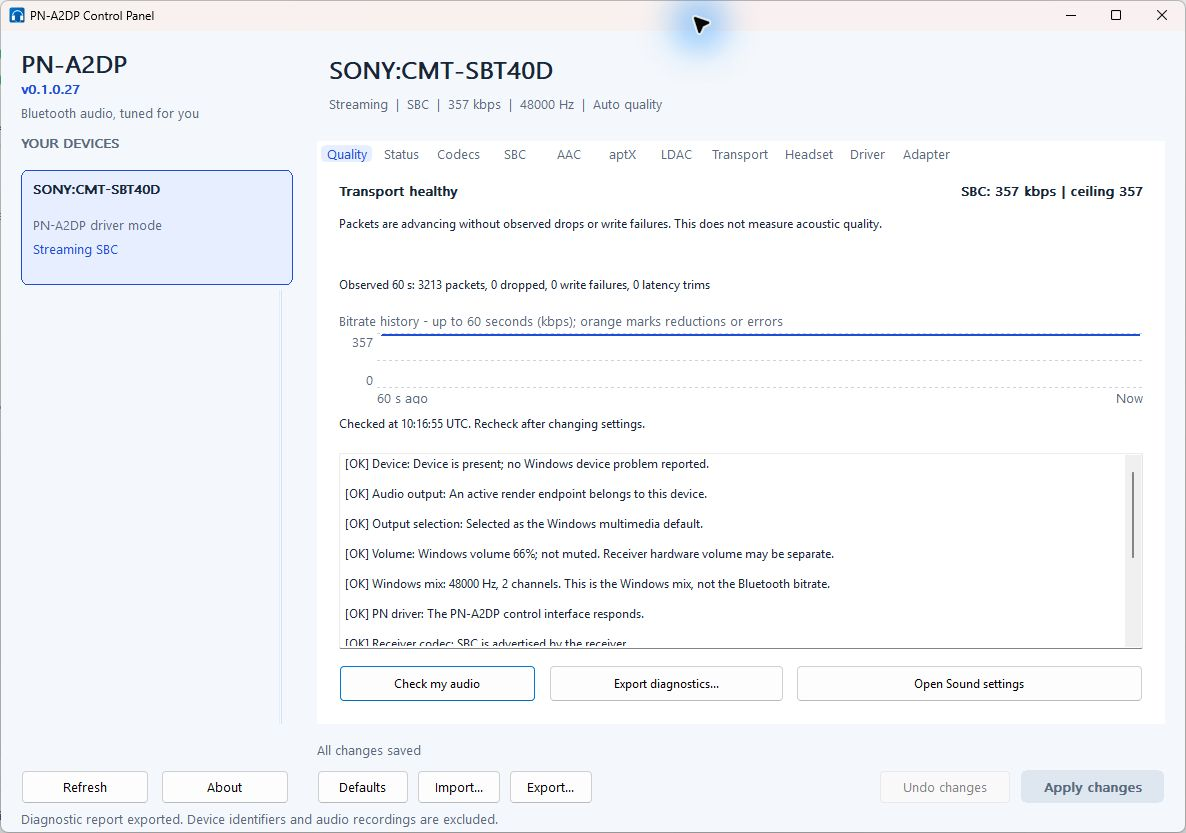
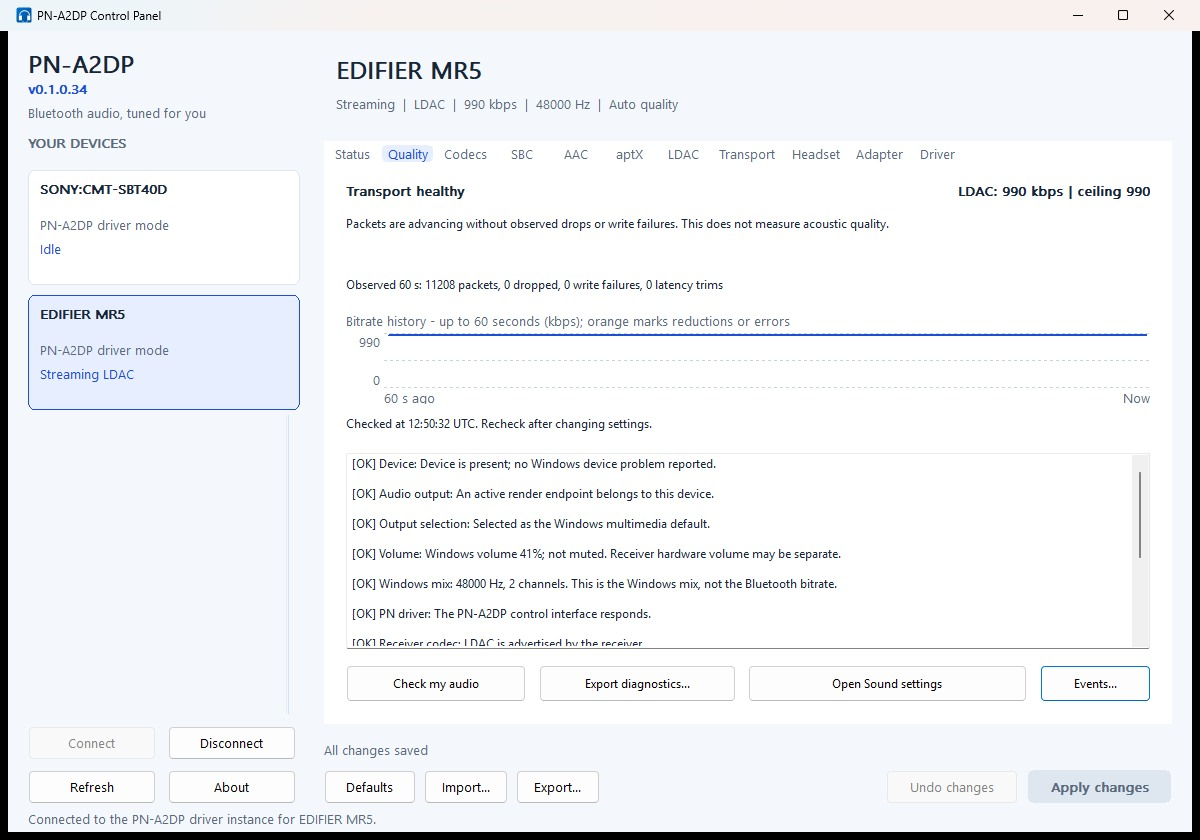
Refresh README screenshot for v0.1.0.34 and explain Windows mode vs Test Mode
- New hero screenshot: control panel 0.1.0.34 with driver 0.1.0.21 streaming LDAC
  at 990 kbps to an EDIFIER MR5 (60 s: 11,208 packets, no drops, write failures
  or latency trims), replacing the 0.1.0.27 Sony SBC capture.
- docs/19: plain-language guide to Windows mode and PN driver mode (Test Mode):
  side-by-side comparison, which to choose, what Test Mode is and changes,
  per-speaker switching, turning Test Mode on and off in a safe order, removal,
  FAQ and a Thai summary. Linked from README, docs/13 and docs/17.

diff --git a/docs/19-windows-mode-and-test-mode.md b/docs/19-windows-mode-and-test-mode.md
@@ -1,0 +1,273 @@
+# Windows mode and Test Mode: which one do I need?
+
+A plain-language guide for application 0.1.0.34 and custom driver 0.1.0.21.
+PN-A2DP can be used in two ways. You choose the way **per speaker or headphone**,
+and you can change your mind later.
+
+## The two ways in one paragraph each
+
+**Windows mode** uses the Bluetooth audio driver that already comes with Windows,
+made by Microsoft. PN-A2DP adds a control panel on top: volume and mute, the
+active output and its Windows format, a **Check my audio** health check and a
+diagnostic report. Windows still decides which codec and bitrate to use. Nothing
+about how Windows starts is changed: no Test Mode, no certificate, and Secure Boot
+and Memory Integrity stay as they are.
+
+**PN driver mode** replaces Microsoft's Bluetooth audio driver with PN-A2DP's own
+kernel driver for the speakers you pick. This unlocks codec choice (SBC, AAC-LC,
+the aptX family and LDAC, when the receiver supports them), bitrate controls, the
+live 60-second quality graph and transport diagnostics. Today this driver is
+signed only with a **development certificate**, not by Microsoft, so Windows loads
+it only when the PC is switched into **Test Mode** and prepared as described below.
+
+## Side by side
+
+| | Windows mode | PN driver mode |
+|---|---|---|
+| **What you get** | | |
+| Bluetooth audio driver | Microsoft's built-in driver | PN-A2DP custom kernel driver |
+| Codecs | Chosen by Windows | SBC, AAC-LC, aptX / aptX HD / aptX LL, LDAC, subject to receiver support |
+| Bitrate and codec controls | Not available | Per-codec settings, priorities and automatic quality |
+| Live quality (bitrate graph, drops, packet health) | Not available | Quality tab |
+| Volume, mute, output information | Audio tab | Integrated with Windows audio controls |
+| Check my audio and diagnostic export | Device and output checks | Adds codec, encoder, service and transport checks |
+| Connect / Disconnect buttons | Yes | Yes |
+| **What it needs** | | |
+| Download | `windows-setup.exe` or `windows-portable.zip` | `testmode-setup.exe`, started with `--allow-test-driver` |
+| Windows Test Mode | No | **Yes, ON** |
+| Secure Boot | Leave as it is | **OFF** in this development build |
+| Memory Integrity (Core isolation) | Leave as it is | **OFF** in this development build |
+| Trust the PN-A2DP test certificate | No | Yes |
+| Administrator rights | To install (not for the portable panel) | Yes, for setup and every driver switch |
+| **Risk and impact** | | |
+| Changes to Windows security settings | None | Test Mode on, two protections off, an extra trusted certificate |
+| Maturity | Uses Microsoft's own driver | Experimental prerelease; limited hardware testing |
+| If something goes wrong | Uninstall the app | A driver fault can affect audio or, in the worst case, Windows start-up; see [recovery](17-test-mode-release-guide.md#return-to-normal-windows) |
+
+## Which should I choose?
+
+- **You just want to control and check your Bluetooth audio:** Windows mode.
+- **You use a work, school or otherwise managed PC:** Windows mode. Changing boot
+  and security settings may be against your organization's policy.
+- **You play games with anti-cheat, or use DRM-protected video apps:** Windows mode.
+  Some of this software may refuse to run while Test Mode is on.
+- **Your disk is protected by BitLocker or Device Encryption and you do not have the
+  recovery key at hand:** Windows mode. Changing Secure Boot may make BitLocker ask
+  for that key at the next start.
+- **You want to choose the codec (for example LDAC), set bitrates or watch the live
+  quality graph, and you are comfortable testing experimental software on a PC you
+  can recover:** PN driver mode.
+- **Not sure?** Start with Windows mode. You can install the Test Mode package and
+  move a speaker to PN driver mode later.
+
+## What Test Mode actually is
+
+In normal mode, 64-bit Windows loads a kernel driver only if it has been signed
+through Microsoft. Adding a certificate to the PC's trusted stores does not change
+that. **Test Mode** (Windows calls it *test signing*) is a boot setting for
+developers. When it is on, Windows also loads kernel drivers signed with a
+**development (test) certificate**. It applies to the whole Windows installation,
+not just to PN-A2DP, and it takes effect only after a restart.
+
+While Test Mode is on, a **"Test Mode" watermark** may appear in the corner of the
+desktop. That is Windows reminding you of the setting; it is not an error.
+
+**Why PN-A2DP needs it today:** the PN driver is signed with the project's own
+development certificate. Getting a Microsoft signature requires a Microsoft Hardware
+Developer account, an EV code-signing certificate and Microsoft's testing and
+submission process. That is not finished yet; see
+[release readiness](15-commercial-readiness.md) and the
+[Thai signing guide](11-production-signing-th.md). Accepting a Windows warning,
+or trusting the certificate, does **not** replace a Microsoft signature.
+
+**What a Microsoft-signed release would change:** the driver would install like
+any normal driver. No Test Mode, no certificate import, and Secure Boot and
+Memory Integrity could stay on. The panel already recognises a Microsoft-signed
+PN package and then skips the development checks. Such a package does not exist
+yet and no date is promised.
+
+## What changes on your PC for PN driver mode
+
+| Change | Why | Trade-off |
+|---|---|---|
+| Test Mode **ON** | Lets the development-signed PN driver load | Other test-signed kernel drivers can load too, not only PN-A2DP's. A desktop watermark may appear. Some anti-cheat or DRM software may refuse to run |
+| Secure Boot **OFF** (in the PC's firmware/UEFI settings) | Secure Boot prevents Test Mode from being turned on | Less protection against malicious software that starts before Windows. BitLocker may ask for its recovery key |
+| Memory Integrity **OFF** (Windows Security > Device security > Core isolation) | The configuration this development build has been tested with | Less protection against attacks on the Windows kernel |
+| PN-A2DP test certificate trusted (Root and TrustedPublisher) | PN's installer and panel verify the driver package's signature before they install it or switch a speaker to it | That trust also applies to anything else signed with the same certificate. Only the public certificate is shipped; no private key is included |
+| Custom kernel driver on the speakers you pick | Provides the PN features | It is experimental. A kernel driver fault can crash Windows; the driver has a crash guard that stops it from loading after two unclean starts in a row |
+
+PN-A2DP's installer and panel **never** turn Secure Boot or Memory Integrity off,
+never import the certificate for you, and never restart Windows by themselves. You
+make those changes yourself, so you stay in control of them.
+
+The **Driver** tab shows three lights for the running session: **Test Mode**,
+**Secure Boot** and **Memory Integrity**. Green means the PN development driver's
+requirement is met, red means it is not, amber means unknown or a pending change.
+Green does not mean "safer": it only means "ready for this development driver".
+
+## Switch a speaker between modes
+
+After installation you switch each paired speaker separately in the control panel
+(the Test Mode installer can also switch speakers during setup; see
+[Turn Test Mode on safely](#turn-test-mode-on-safely)):
+
+1. Stop playback and select the speaker in the device list.
+2. Open the **Driver** tab.
+3. Choose **Use Windows mode** to move it to Microsoft's driver, or
+   **Use PN-A2DP driver** to move it to the PN driver. Accept the administrator
+   prompt.
+4. If Windows asks for a restart, save your work and restart yourself.
+
+**Use PN-A2DP driver** is refused until Test Mode is ON (now and for the next
+start), Secure Boot is OFF, Memory Integrity is OFF (running and saved), the PN
+package's signature is trusted, and the **Windows / Test Mode...** window is
+closed. **Requirements...** lists what is missing. **Use Windows mode** has no
+such requirement. A speaker's PN codec settings are kept when you switch it to
+Windows mode and come back when you switch it back.
+
+While the PN driver package is installed, a speaker you pair **later** is put on
+the PN driver automatically, because its driver ranks above Microsoft's. Use
+**Use Windows mode** for any speaker that should stay on Microsoft's driver.
+Windows Update can also put Microsoft's driver back on a
+speaker; check the Driver tab if a speaker's features change unexpectedly.
+
+## Turn Test Mode on safely
+
+Do these steps in this order, on a PC you can recover. The detailed commands and
+certificate fingerprints are in the [Test Mode release guide](17-test-mode-release-guide.md).
+
+1. Save your work. If BitLocker or Device Encryption is on, have the recovery key
+   ready (do not share it).
+2. Turn **Secure Boot OFF** in the PC's firmware/UEFI settings, following the
+   manufacturer's instructions. Do not clear firmware keys or the TPM.
+3. Turn **Memory Integrity OFF** in Windows Security and restart if asked.
+4. Turn **Test Mode ON**: in the panel, **Driver > Windows / Test Mode... >
+   Enable Test Mode** (the button stays disabled while Secure Boot is on), or
+   `bcdedit /set testsigning on` in an administrator terminal.
+5. **Restart Windows** yourself. The dialog shows both the current session and the
+   setting saved for the next start; the change counts only after a restart.
+6. Verify and trust the test certificate, then run the Test Mode installer with
+   `--allow-test-driver`. Setup refuses to install the driver unless Test Mode is
+   already active. On the installer's device page, tick only the speakers you want
+   on the PN driver. All paired speakers are ticked by default, and setup switches
+   the ticked ones during installation. Unticked speakers keep Microsoft's driver.
+7. Use **Use PN-A2DP driver** in the panel for any other speaker you want on the
+   PN driver later (close **Windows / Test Mode...** first).
+
+## Turn Test Mode off safely
+
+**The order matters: move your speakers back to Windows mode *before* turning
+Test Mode off.**
+
+When Test Mode is off, Windows will not load a driver signed only with a
+development certificate. A speaker still assigned to the PN driver would then
+have no working driver, and no sound, until it is switched back.
+
+1. Pause playback. For **every** speaker on the PN driver, including ones that are
+   switched off or out of range, choose **Driver > Use Windows mode**. Restart if
+   asked. Or uninstall PN-A2DP (see below), which does this for every speaker.
+2. Check that sound works through Microsoft's driver.
+3. Turn **Test Mode OFF**: **Driver > Windows / Test Mode... > Normal Windows (Test
+   Mode OFF)**, or `bcdedit /set testsigning off` in an administrator terminal.
+   Only do this if no other test-signed driver on the PC still needs Test Mode.
+4. Restart Windows yourself.
+5. Turn **Secure Boot** and **Memory Integrity** back on, restart as required, and
+   check the lights or Windows Security to confirm.
+
+The panel's Test Mode dialog helps you get the order right: it **refuses to turn
+Test Mode off** while any paired speaker still uses a PN driver that is not
+Microsoft-signed, and lists those speakers. Running `bcdedit` yourself has no such
+check.
+
+**If you already turned Test Mode off first** and a speaker has no sound: open the
+panel, select that speaker and choose **Driver > Use Windows mode** (or uninstall
+PN-A2DP). Alternatively turn Test Mode back on and restart. If Windows itself will
+not start normally, use Safe Mode from Windows Recovery and uninstall PN-A2DP; see
+[recovery](17-test-mode-release-guide.md#return-to-normal-windows).
+
+## Remove everything
+
+- **Windows mode installer:** uninstall PN-A2DP from **Settings > Apps >
+  Installed apps** (listed as *PN-A2DP Bluetooth audio driver*). Nothing else
+  needs undoing.
+- **Windows-mode portable panel:** close it and delete its folder.
+- **PN driver mode:**
+  1. Uninstall PN-A2DP from **Installed apps** (listed as *PN-A2DP Bluetooth audio
+     driver*). This restores Microsoft's driver on every speaker that used PN,
+     removes the driver package from the Windows driver store, and removes the
+     codec host service, shortcuts and files. Per-speaker PN settings may remain in
+     the registry. Restart if asked and check that sound works.
+  2. Turn Test Mode off and restart, then restore Secure Boot and Memory Integrity,
+     as in [Turn Test Mode off safely](#turn-test-mode-off-safely).
+  3. Remove the PN-A2DP test certificate trust entries if nothing else needs them;
+     the exact commands are in the
+     [Test Mode release guide](17-test-mode-release-guide.md#return-to-normal-windows).
+
+## FAQ
+
+**Do I need Test Mode for Windows mode?**
+No. Windows mode never needs Test Mode, a certificate, or changes to Secure Boot or
+Memory Integrity.
+
+**Can some speakers use Windows mode and others the PN driver?**
+Yes. The choice is per speaker, on the Driver tab.
+
+**Can I keep Secure Boot on and still use the PN driver?**
+Not with this development build. Secure Boot prevents Test Mode from being enabled,
+and the panel refuses PN activation while Secure Boot is on.
+
+**I clicked through the "unknown publisher" warning. Isn't that enough?**
+No. That warning is about the installer application. Loading a kernel driver is a
+separate, stricter Windows check; only Test Mode (today) or a Microsoft-signed
+driver (in future) satisfies it.
+
+**Is Test Mode dangerous?**
+It lowers Windows' protection against untrusted kernel drivers, and this build
+also asks you to turn Secure Boot and Memory Integrity off. That is a reasonable
+trade-off on a personal test PC you can recover, and not a good idea on a PC that
+holds sensitive work or is managed by an organization.
+
+**How do I get rid of the "Test Mode" watermark?**
+Follow [Turn Test Mode off safely](#turn-test-mode-off-safely). The watermark
+disappears after the restart.
+
+**A speaker I just paired uses the PN driver, but I wanted Windows mode.**
+Select it and choose **Driver > Use Windows mode**.
+
+**When will PN driver mode work without Test Mode?**
+When a Microsoft-signed driver is released. There is no date yet.
+
+## สรุปภาษาไทย
+
+- **Windows mode** ใช้ไดรเวอร์ Bluetooth ของ Microsoft ที่มากับ Windows; PN-A2DP
+  เพิ่มแผงควบคุมเสียง ปรับเสียง/ปิดเสียง ตรวจสุขภาพเสียง และส่งออกรายงาน Windows
+  เป็นผู้เลือก codec เอง **ไม่ต้องเปิด Test Mode** ไม่ต้องติดตั้งใบรับรอง และไม่ต้อง
+  ปิด Secure Boot หรือ Memory Integrity ใช้ไฟล์ `windows-setup.exe` หรือ
+  `windows-portable.zip`
+- **PN driver mode** ใช้ไดรเวอร์ของ PN-A2DP แทนไดรเวอร์ของ Microsoft เฉพาะลำโพงที่
+  เลือก ได้การเลือก codec (SBC, AAC-LC, aptX, LDAC ตามที่ลำโพงรองรับ) ปรับ bitrate
+  และกราฟคุณภาพสด แต่ไดรเวอร์รุ่นนี้เซ็นด้วยใบรับรองสำหรับพัฒนาเท่านั้น ยังไม่ได้เซ็น
+  โดย Microsoft จึงต้องเปิด **Test Mode**, ปิด **Secure Boot**, ปิด **Memory Integrity**
+  และเชื่อถือใบรับรองทดสอบก่อน แล้วรันตัวติดตั้ง `testmode-setup.exe --allow-test-driver`
+- ในหน้าเลือกอุปกรณ์ของตัวติดตั้ง ให้เลือกเฉพาะลำโพงที่ต้องการใช้ไดรเวอร์ PN
+  (ค่าเริ่มต้นเลือกไว้ทุกตัว และตัวติดตั้งจะเปลี่ยนไดรเวอร์ของลำโพงที่เลือกทันที)
+- **Test Mode** คือการตั้งค่าตอนบูตของ Windows ที่อนุญาตให้โหลดไดรเวอร์ที่เซ็นด้วย
+  ใบรับรองทดสอบ มีผลกับทั้งเครื่องหลังรีสตาร์ต อาจมีลายน้ำ "Test Mode" ที่มุมจอ
+  โปรแกรม anti-cheat หรือ DRM บางตัวอาจไม่ทำงาน และ BitLocker อาจถาม recovery key
+  หลังเปลี่ยน Secure Boot ถ้าในอนาคตไดรเวอร์ได้ลายเซ็นของ Microsoft จะไม่ต้องใช้
+  Test Mode และไม่ต้องปิดระบบป้องกันอีก (ยังไม่มีกำหนด)
+- ถ้าไม่แน่ใจ หรือใช้เครื่องของที่ทำงาน ให้เริ่มที่ **Windows mode**
+- เปลี่ยนโหมดของแต่ละลำโพงที่แท็บ **Driver**: **Use Windows mode** หรือ
+  **Use PN-A2DP driver** (ปุ่มหลังจะทำงานเมื่อ Test Mode ON ทั้งตอนนี้และหลังบูตครั้งถัดไป,
+  Secure Boot OFF, Memory Integrity OFF, เชื่อถือลายเซ็นของแพ็กเกจ PN แล้ว และปิดหน้าต่าง
+  **Windows / Test Mode...** อยู่ ดูสิ่งที่ยังขาดได้ที่ **Requirements...**)
+- **ก่อนปิด Test Mode ต้องเปลี่ยนทุกลำโพงกลับเป็น Windows mode ก่อน** (หรือถอน
+  PN-A2DP) ไม่อย่างนั้นลำโพงที่ยังใช้ไดรเวอร์ PN จะไม่มีเสียงจนกว่าจะเปลี่ยนกลับ
+  หน้าต่าง **Windows / Test Mode...** จะไม่ยอมปิด Test Mode ถ้ายังมีลำโพงใช้ไดรเวอร์ PN
+  อยู่ แต่คำสั่ง `bcdedit` ไม่ได้ตรวจให้
+- ลำดับการปิด: ย้ายลำโพงกลับ Windows mode > ปิด Test Mode > รีสตาร์ต > เปิด Secure
+  Boot และ Memory Integrity คืน > ลบใบรับรองทดสอบถ้าไม่ใช้แล้ว
+- ตัวติดตั้งและแผงควบคุมไม่ปิด Secure Boot หรือ Memory Integrity ให้ ไม่ติดตั้งใบรับรองให้
+  และไม่รีสตาร์ตเครื่องเอง (แผงควบคุมเปิด/ปิด Test Mode ได้เมื่อคุณกดยืนยันเท่านั้น)
+- รายละเอียดคำสั่งและลายนิ้วมือใบรับรองอยู่ใน
+  [คู่มือ Test Mode](17-test-mode-release-guide.md)

diff --git a/README.md b/README.md
@@ -13,9 +13,10 @@ adaptive quality, and diagnostics you can understand.
 
 </div>
 
-![PN-A2DP Quality dashboard showing an active Sony SBC stream, a 60-second bitrate graph, and audio health checks](docs/images/quality-dashboard.jpg)
+![PN-A2DP Quality dashboard showing an EDIFIER MR5 streaming LDAC at 990 kbps, a 60-second bitrate graph, and audio health checks](docs/images/quality-dashboard.jpg)
 
-*Actual control panel v0.1.0.27 on Windows 11, streaming to a Sony CMT-SBT40D.
+*Actual control panel v0.1.0.34 (driver 0.1.0.21) on Windows 11, streaming LDAC at 990 kbps
+to an EDIFIER MR5: 11,208 packets in 60 seconds with no drops, write failures or latency trims.
 The dashboard reports observed transport health; it does not measure acoustic quality.*
 
 ## What you can do
@@ -47,6 +48,13 @@ The dashboard reports observed transport health; it does not measure acoustic qu
 | Automatic quality management | Managed by Windows | Receiver-aware policy for supported variable-rate codecs |
 | Custom kernel driver required | No | Yes |
 | Current installation path | Application-only installer or portable panel | Development package on a prepared test machine |
+
+**Windows mode or Test Mode?** Windows mode keeps Microsoft's Bluetooth driver and
+changes nothing about how Windows starts. PN driver mode loads PN-A2DP's own kernel
+driver, which is signed only with a development certificate today, so Windows loads
+it only in **Test Mode**, a boot setting for development-signed drivers. You choose
+per speaker; switch speakers back to Windows mode *before* turning Test Mode off. See
+[Windows mode and Test Mode explained](docs/19-windows-mode-and-test-mode.md).
 
 **Start with Windows mode** for device controls and diagnostics without installing
 a custom driver. It needs no Test Mode, driver certificate, or Microsoft developer
@@ -185,6 +193,7 @@ docs/              Architecture, installation, and validation notes
 | Guide | Contents |
 |---|---|
 | [Audio diagnostics](docs/14-audio-diagnostics.md) | Check my audio, live quality, export contents, and privacy |
+| [Windows mode and Test Mode explained](docs/19-windows-mode-and-test-mode.md) | Plain-language comparison, which to choose, turning Test Mode on and off safely, Thai summary |
 | [Windows mode](docs/13-windows-mode.md) | Standard driver controls, switching, and boot-mode readiness |
 | [Automatic quality](docs/10-adapter-quality.md) | Adapter detection, congestion response, and recovery |
 | [Control panel and installer](docs/07-control-panel-and-installer.md) | Device controls, configuration, and installation behavior |

diff --git a/docs/17-test-mode-release-guide.md b/docs/17-test-mode-release-guide.md
@@ -19,6 +19,8 @@ preserves existing driver assignments. If a device already uses PN, select
 
 Windows mode provides output controls and diagnostics. Windows manages its codecs;
 PN codec selection and Bluetooth bitrate telemetry need the custom driver.
+New to Test Mode? Read [Windows mode and Test Mode explained](19-windows-mode-and-test-mode.md)
+first; it covers what Test Mode changes and which mode to choose.
 
 ## Verify the download
 
@@ -138,7 +140,8 @@ loading of this development driver.
    trouble and sufficient fresh observations.
 
 Setup changes neither boot policy nor firmware settings and does not reboot the
-computer. Existing codec settings are retained on upgrade. A new Windows audio
+computer on its own; the Finish page offers an optional, unticked "Restart the
+computer now" box. Existing codec settings are retained on upgrade. A new Windows audio
 endpoint ID can be assigned during installation; reselect the named receiver if
 an application was pinned to its old endpoint.
 
@@ -222,6 +225,8 @@ are included; those do not establish patent clearance or product certification.
 
 ## ภาษาไทยแบบย่อ
 
+- อ่านคำอธิบายแบบเข้าใจง่ายว่า Windows mode กับ Test Mode ต่างกันอย่างไรได้ที่
+  [Windows mode and Test Mode explained](19-windows-mode-and-test-mode.md#สรุปภาษาไทย)
 - ถ้าไม่ต้องการ Test Mode ให้ใช้ไฟล์ **windows-setup.exe**; Windows จะเป็นผู้เลือก codec
 - ไฟล์ **testmode-setup.exe** เป็นไดรเวอร์ทดลอง ต้องเตรียม Test Mode ON, Secure Boot OFF
   และ Memory Integrity OFF ตามข้อกำหนดของรุ่นนี้ แล้วรีสตาร์ตและตรวจสถานะก่อนติดตั้ง

diff --git a/docs/13-windows-mode.md b/docs/13-windows-mode.md
@@ -10,6 +10,10 @@ for Program Files and shortcuts; the panel's normal audio controls do not.
 The unsigned application may still show a Windows publisher/reputation prompt.
 This is separate from kernel driver signing.
 
+For a plain-language comparison of Windows mode and PN driver mode, and the safe
+order for turning Test Mode on and off, see
+[Windows mode and Test Mode explained](19-windows-mode-and-test-mode.md).
+
 The installer preserves existing device driver assignments. If upgrading from
 the PN-A2DP driver, select the device, open **Driver**, and choose **Use Windows
 mode**. This changes only that device and preserves its PN-A2DP codec preferences.
